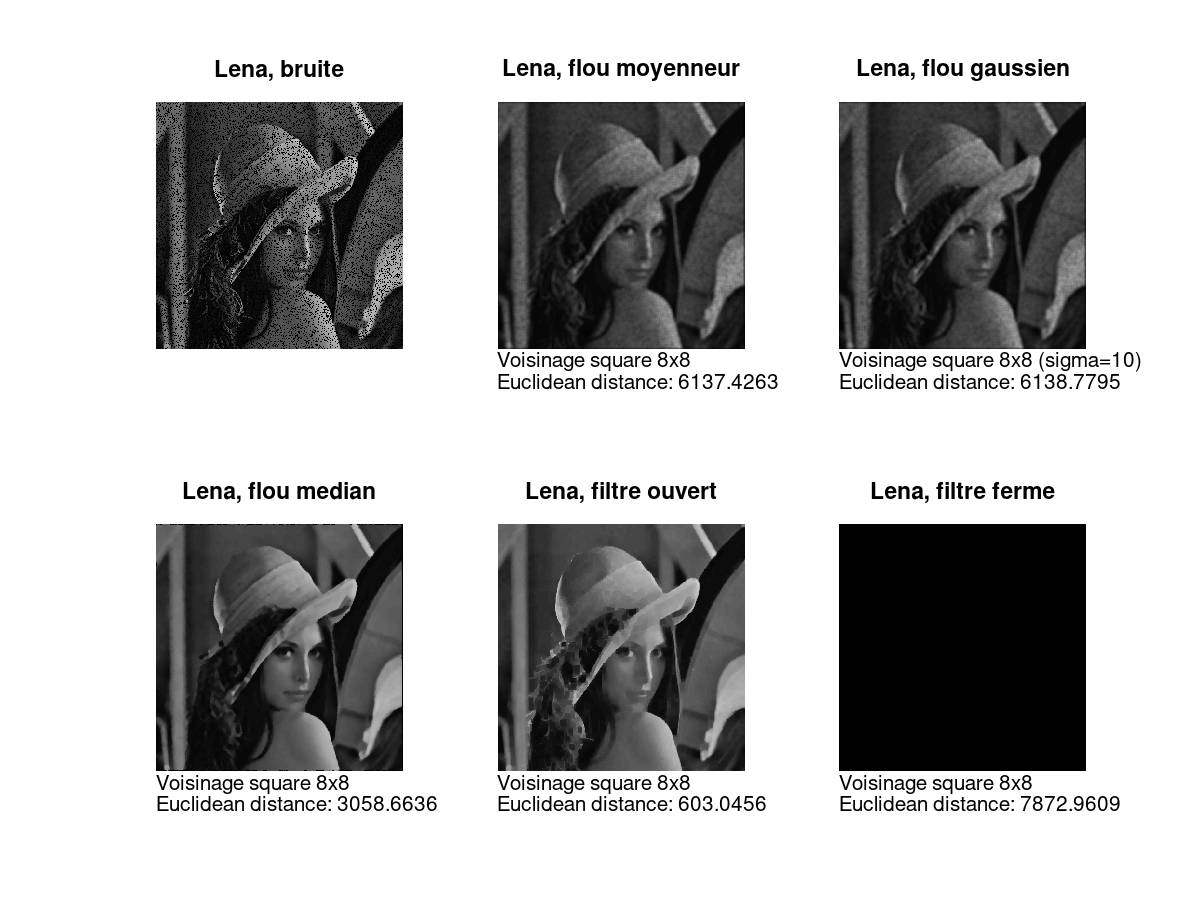
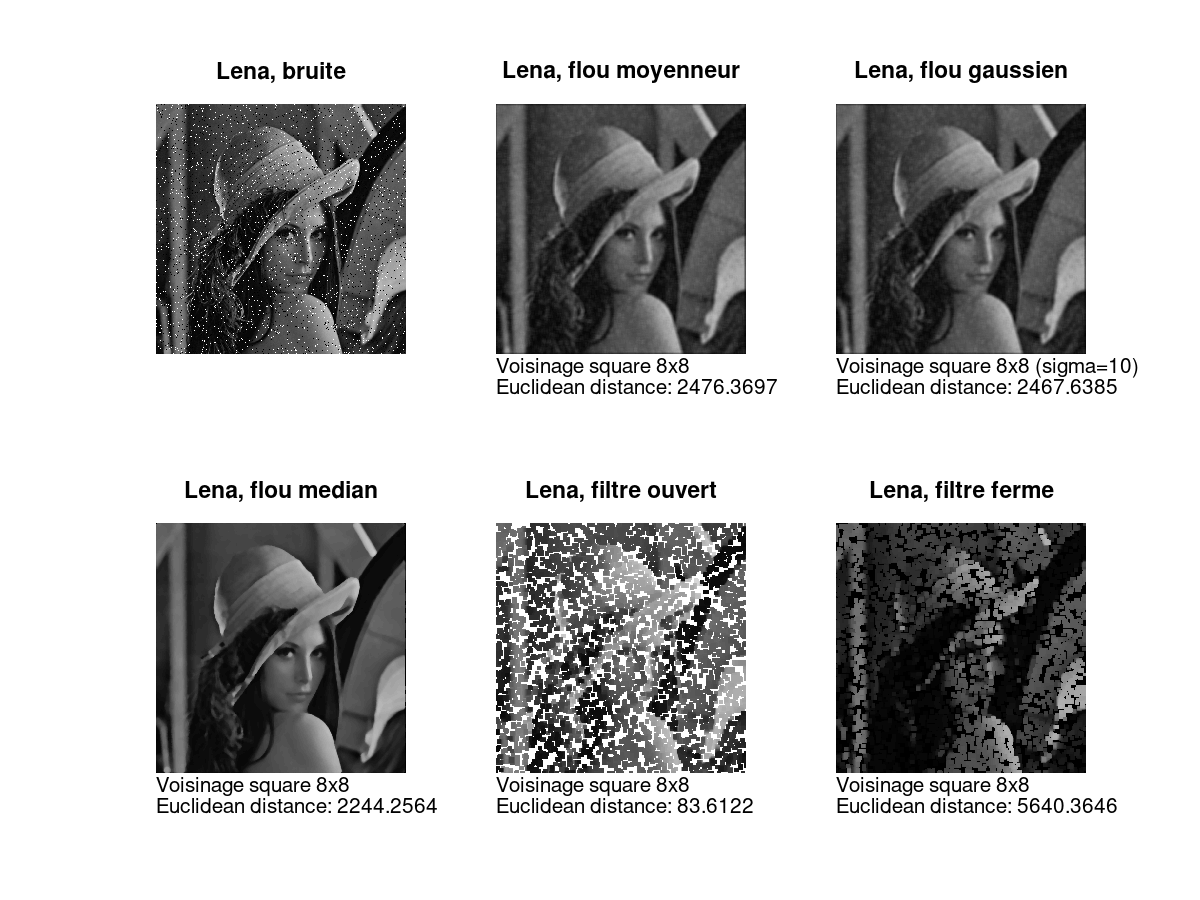
:sparkles: Notes and fix on TP4

diff --git a/TP4/tp4.m b/TP4/tp4.m
@@ -231,9 +231,9 @@ function display_all_del_noise(img_original, img_noise, img_name, filename, size
 	saveas(f, ["output/" filename "_del_noise_" strel_shape "_" num2str(size) ".png"]);
 endfunction
 
-display_all_del_noise(lena, cell2mat(lena_bruit_1), "Lena", "lena_poivre_sel", 3, 10, 'square');
-display_all_del_noise(lena, cell2mat(lena_bruit_1), "Lena", "lena_poivre_sel", 5, 10, 'square');
-display_all_del_noise(lena, cell2mat(lena_bruit_1), "Lena", "lena_poivre_sel", 8, 10, 'square');
+display_all_del_noise(lena, lena_bruit_1, "Lena", "lena_poivre_sel", 3, 10, 'square');
+display_all_del_noise(lena, lena_bruit_1, "Lena", "lena_poivre_sel", 5, 10, 'square');
+display_all_del_noise(lena, lena_bruit_1, "Lena", "lena_poivre_sel", 8, 10, 'square');
 
 display_all_del_noise(lena, lena_bruit_2, "Lena", "lena_gaussien", 3, 10, 'square');
 display_all_del_noise(lena, lena_bruit_2, "Lena", "lena_gaussien", 5, 10, 'square');

diff --git a/TP4/TP4.md b/TP4/TP4.md
@@ -93,49 +93,57 @@ Plus la valeur de cette probabilité est grande plus on a de valeurs changées d
 
 On test dans cette partie le debruitage de ces bruits via l'ensembles des méthodes que nous avons vu dans les précedents TP.
 
+##### Taille 3
+
 ![](output/lena_poivre_sel_del_noise_square_3.png)
-![](output/lena_poivre_sel_del_noise_square_5.png)
-![](output/lena_poivre_sel_del_noise_square_8.png)
 
 ![](output/lena_gaussien_del_noise_square_3.png)
-![](output/lena_gaussien_del_noise_square_5.png)
-![](output/lena_gaussien_del_noise_square_8.png)
 
-##### Taille 3
 
 Distance euclidienne image originale/image debruitée
 
-|                            | Poivre-sel | Gaussien |
-|----------------------------|------------|----------|
-| Filtre passe-bas moyenneur |            |          |
-| Filtre passe-bas gaussien  |            |          |
-| Filtre médian              |            |          |
-| Ouverture                  |            |          |
-| Fermeture                  |            |          |
+|                            |   Poivre-sel   |   Gaussien   |
+|----------------------------|----------------|--------------|
+| Filtre passe-bas moyenneur |     2415       |    1948      |
+| Filtre passe-bas gaussien  |     2416       |    1948      |
+| Filtre médian              |     1374       |    2057      |
+| Ouverture                  |     251        |    670       |
+| Fermeture                  |     2739       |    5076      |
 
 ##### Taille 5
 
+![](output/lena_poivre_sel_del_noise_square_5.png)
+
+![](output/lena_gaussien_del_noise_square_5.png)
+
+
 Distance euclidienne image originale/image debruitée
 
-|                            | Poivre-sel | Gaussien |
-|----------------------------|------------|----------|
-| Filtre passe-bas moyenneur |            |          |
-| Filtre passe-bas gaussien  |            |          |
-| Filtre médian              |            |          |
-| Ouverture                  |            |          |
-| Fermeture                  |            |          |
+|                            |   Poivre-sel   |   Gaussien   |
+|----------------------------|----------------|--------------|
+| Filtre passe-bas moyenneur |      2308      |    2205      |
+| Filtre passe-bas gaussien  |      2305      |    2201      |
+| Filtre médian              |      1816      |    2096      |
+| Ouverture                  |      167       |    495       |
+| Fermeture                  |      3931      |    6460      |
 
 ##### Taille 8
 
+![](output/lena_poivre_sel_del_noise_square_8.png)
+
+![](output/lena_gaussien_del_noise_square_8.png)
+
 Distance euclidienne image originale/image debruitée
 
-|                            | Poivre-sel | Gaussien |
-|----------------------------|------------|----------|
-| Filtre passe-bas moyenneur |            |          |
-| Filtre passe-bas gaussien  |            |          |
-| Filtre médian              |            |          |
-| Ouverture                  |            |          |
-| Fermeture                  |            |          |
+|                            |   Poivre-sel   |   Gaussien   |
+|----------------------------|----------------|--------------|
+| Filtre passe-bas moyenneur |     2476       |    2610      |
+| Filtre passe-bas gaussien  |     2467       |    2601      |
+| Filtre médian              |     2244       |    2356      |
+| Ouverture                  |     83         |    415       |
+| Fermeture                  |     5640       |    7223      |
 
 
-**Remarques** Filtre impulsionnel puis filtre median : on retrouve l'image
+**Remarques**
+- Avec un filtre impulsionnel puis filtre median on retrouve l'image d'origine
+- Une taille de filtre trop grande dénature l'image
